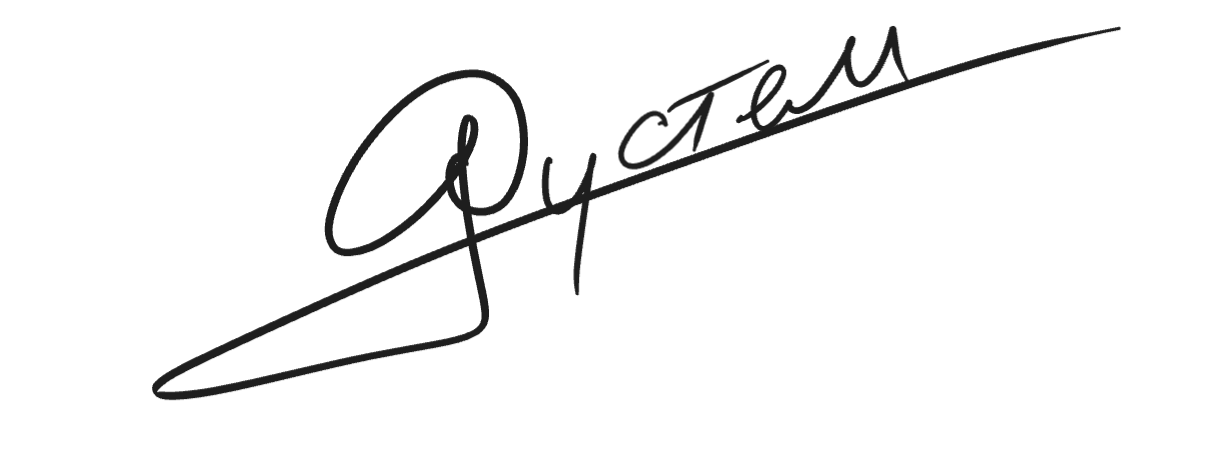
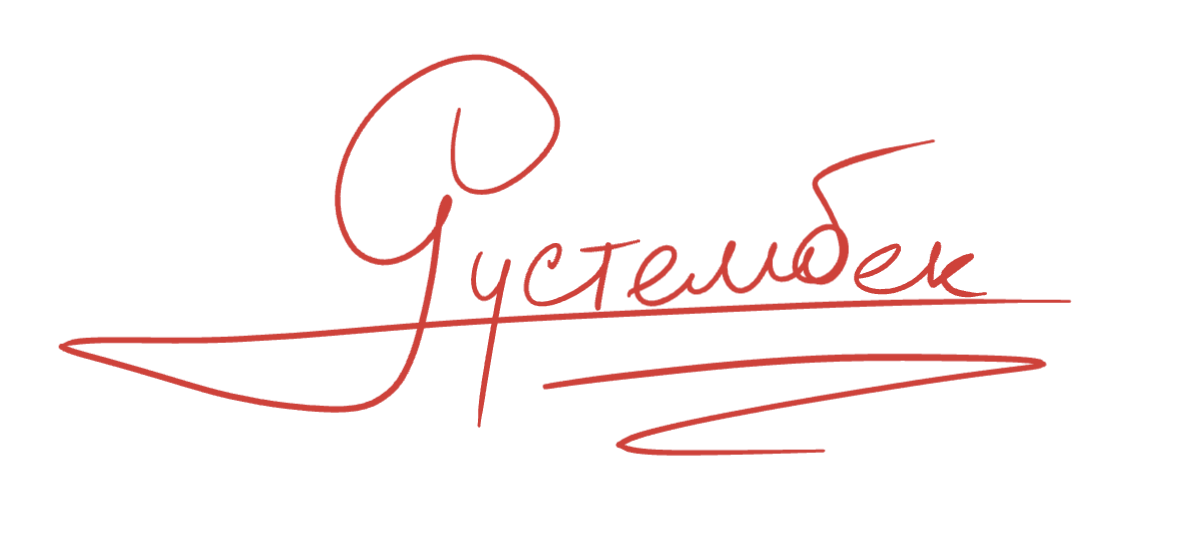
Қолтаңба жаңа суретке ауыстырылды (толық «Рустембек»)
- scripts/signature/signature.png — жаңа қолтаңба суреті
- build.py: қырлар қолмен тізілмейді, енді автоматты жалғанады — әр түйінде қалам ең түзу жалғасатын қырмен жүреді; алдымен әріптер солдан оңға, соңында асты сызылған сызық пен әшекейлер бір-бірімен жалғаса салынады
- src/data/generated/signature.json қайта жасалды (23 штрих)
- Интрода қалам жылдамдығы 1.05 → 1.6: жаңа қолтаңба ұзынырақ, жазылу бұрынғыдай ≈6 секундта бітеді

Claude-Session: https://claude.ai/code/session_015DZw1wLjvaSYTfkbT6zD3Y

Changed region(s): [[0.0311, 0.0619, 0.9328, 0.8982], [0.4664, 0.2168, 0.4975, 0.2478]]

diff --git a/src/components/Signature.tsx b/src/components/Signature.tsx
@@ -197,7 +197,7 @@ export function Intro({ onEnd }: { onEnd: () => void }) {
       <div className="intro-aura" aria-hidden="true"><i /><i /><i /></div>
       <div className="intro-in">
         <div className="intro-burst" aria-hidden="true" />
-        <Signature speed={1.05} label="Интро: автордың қолтаңбасы" onDone={() => { box.current?.classList.add('signed'); close(1700); }} />
+        <Signature speed={1.6} label="Интро: автордың қолтаңбасы" onDone={() => { box.current?.classList.add('signed'); close(1700); }} />
         <div className="intro-word" aria-hidden="true">{'ОРГАНИКА'.split('').map((ch, i) => <span key={i} style={{ transitionDelay: i * 55 + 'ms' }}>{ch}</span>)}</div>
         <div className="intro-line" aria-hidden="true" />
       </div>

diff --git a/scripts/signature/build.py b/scripts/signature/build.py
@@ -1,49 +1,117 @@
-"""Скелет қырларын қалам жүрісі ретімен тізіп, тегіс SVG жолдарына айналдыру."""
+"""Скелет қырларын қалам жүрісіне автоматты жалғап, тегіс SVG жолдарына айналдыру.
+
+Қолдану (signature.png тұрған бумада):
+    python3 trace.py signature.png   # skel.npy, debug.png
+    python3 edges.py                 # graph.json, edges.png
+    python3 build.py                 # signature.json, check.png
+    cp signature.json ../../src/data/generated/signature.json
+
+Қырларды қолмен тізудің қажеті жоқ: әр түйінде қалам ең түзу жалғасатын (бұрылысы ең аз)
+қырмен жүреді, бұрылыс тым күрт болса — штрих аяқталады. Штрихтар солдан оңға қарай салынады.
+"""
 import json, math
 import numpy as np
 from PIL import Image, ImageDraw
 
 g = json.load(open('graph.json'))
 E = g['edges']
+cent = {int(k): v for k, v in g['cent'].items()}
+MAX_TURN = math.radians(75)   # бұдан күрт бұрылыс — жаңа штрих
 
-def chain(start, ids):
-    """start түйінінен бастап қырларды ретімен жалғау (бағыты автоматты)."""
-    cur, out = start, []
-    for i in ids:
-        e = E[i]
-        pts = e['pts']
-        if e['a'] == e['b']:
-            pass  # тұйық ілмек: бағыты кейін тексеріледі
-        elif e['a'] == cur:
-            cur = e['b']
-        elif e['b'] == cur:
-            pts = pts[::-1]; cur = e['a']
-        else:
-            raise SystemExit('edge e%d does not touch n%d' % (i, cur))
-        out += pts if not out else pts[1:]
-    return out
+adj = {}
+for i, e in enumerate(E):
+    adj.setdefault(e['a'], []).append(i)
+    if e['b'] != e['a']:
+        adj.setdefault(e['b'], []).append(i)
 
-def loop_dir(pts, want_down):
-    k = min(40, len(pts) // 4)
-    down = pts[k][1] > pts[0][1]
-    return pts if down == want_down else pts[::-1]
+def oriented(i, frm):
+    """i қырының нүктелері frm түйінінен басталатындай бағытта."""
+    e = E[i]
+    pts = e['pts']
+    if e['a'] == frm:
+        return pts, e['b']
+    return pts[::-1], e['a']
 
-# 1) Р әрпі + астынан өтетін ұзын сызық (бір тыныспен)
-s1 = chain(19, [16, 24, 25, 30, 23, 15])
-s1 += loop_dir(E[26]['pts'], True)[1:]
-s1 += chain(35, [15, 33, 8, 7, 17, 37, 36, 38, 6, 27])[1:]
-# 2–3) у
-s2 = chain(26, [14, 8, 7, 22])
-s3 = chain(24, [22, 7, 9])
-# 4–6) с, т
-s4 = chain(18, [10, 5])
-s5 = chain(8, [5, 35])
-s6 = chain(12, [3, 13])
-# 7) е
-s7 = chain(17, [1, 19]) + loop_dir(E[4]['pts'], False)[1:] + chain(10, [19, 0])[1:]
-# 8) м
-s8 = chain(22, [32, 31, 31, 39, 34, 2, 2, 20, 18, 18, 11])
-strokes = [s1, s2, s3, s4, s5, s6, s7, s8]
+def direction(pts, at_start, k=12):
+    """Қырдың басындағы (немесе соңындағы) бағыт векторы."""
+    p = np.array(pts, float)
+    k = min(k, len(p) - 1)
+    if k <= 0:
+        return np.zeros(2)
+    v = p[k] - p[0] if at_start else p[-1] - p[-1 - k]
+    n = np.hypot(*v)
+    return v / n if n else v
+
+def turn(v1, v2):
+    if not v1.any() or not v2.any():
+        return 0.0
+    return math.acos(max(-1.0, min(1.0, float(v1 @ v2))))
+
+used = set()
+def free(n):
+    return [i for i in adj.get(n, []) if i not in used]
+
+def walk(start):
+    pts, node, inc = [], start, None
+    while True:
+        cand = free(node)
+        if not cand:
+            break
+        best, bt = None, None
+        for i in cand:
+            p, _ = oriented(i, node)
+            t = turn(inc, direction(p, True)) if inc is not None else 0.0
+            if bt is None or t < bt:
+                best, bt = i, t
+        if inc is not None and bt > MAX_TURN:
+            break
+        p, nxt = oriented(best, node)
+        used.add(best)
+        pts += p if not pts else p[1:]
+        inc = direction(p, False)
+        node = nxt
+    return pts
+
+strokes = []
+while len(used) < len(E):
+    # бос ұшы бар түйіндерден (сол жақтағысынан) бастаймыз, болмаса — кез келген қалған қырдан
+    ends = [n for n in adj if len(free(n)) == 1]
+    nodes = ends or [n for n in adj if free(n)]
+    start = min(nodes, key=lambda n: cent[n][0])
+    s = walk(start)
+    if len(s) >= 2:
+        strokes.append(s)
+
+# өте қысқа қалдықтарды (түйін ішіндегі ұсақ қырлар) тастаймыз
+def plen(s):
+    a = np.array(s, float)
+    return float(np.hypot(*np.diff(a, axis=0).T).sum())
+strokes = [s for s in strokes if plen(s) > 14]
+# әр штрих сол жақ ұшынан басталсын, штрихтар солдан оңға салынсын
+strokes = [s if s[0][0] <= s[-1][0] else s[::-1] for s in strokes]
+# алдымен әріптер (солдан оңға), ең соңында ұзын әшекейлі сызықтар — қолмен жазғандағыдай
+allx = np.array([p[0] for s in strokes for p in s])
+W_ALL = allx.max() - allx.min()
+def width(s):
+    xs = [p[0] for p in s]
+    return max(xs) - min(xs)
+ally = np.array([p[1] for s in strokes for p in s])
+LOW = ally.min() + 0.75 * (ally.max() - ally.min())   # бұдан төмен басталатын штрих — асты сызған әшекей
+flourish = lambda s: width(s) > 0.33 * W_ALL or min(p[1] for p in s) > LOW
+letters = sorted([s for s in strokes if not flourish(s)], key=lambda s: s[0][0])
+rest = [s for s in strokes if flourish(s)]
+# әшекейлер: сол жақтағысынан бастап, келесісі — алдыңғысының соңына ең жақын ұшы бар штрих (қажет болса кері бағытта)
+tail = []
+if rest:
+    cur = min(rest, key=lambda s: s[0][0]); rest.remove(cur); tail.append(cur)
+    while rest:
+        end = np.array(tail[-1][-1])
+        best = min(rest, key=lambda s: min(np.hypot(*(np.array(s[0]) - end)), np.hypot(*(np.array(s[-1]) - end))))
+        rest.remove(best)
+        if np.hypot(*(np.array(best[-1]) - end)) < np.hypot(*(np.array(best[0]) - end)):
+            best = best[::-1]
+        tail.append(best)
+strokes = letters + tail
 
 def smooth(pts, it=3, win=9):
     a = np.array(pts, float)
@@ -58,18 +126,6 @@ def smooth(pts, it=3, win=9):
         a = b
     return a
 
-def rdp(a, eps):
-    if len(a) < 3:
-        return a
-    s, e = a[0], a[-1]
-    d = e - s
-    n = np.hypot(*d)
-    dist = np.abs(d[0] * (a[:, 1] - s[1]) - d[1] * (a[:, 0] - s[0])) / n if n else np.hypot(*(a - s).T)
-    i = int(dist.argmax())
-    if dist[i] > eps:
-        return np.vstack([rdp(a[:i + 1], eps)[:-1], rdp(a[i:], eps)])
-    return np.array([s, e])
-
 def to_path(a):
     """Catmull-Rom → кубтық Безье."""
     f = lambda v: ('%.1f' % v).rstrip('0').rstrip('.')
@@ -81,11 +137,15 @@ def to_path(a):
         d += 'C%s %s %s %s %s %s' % tuple(f(v) for v in (*c1, *c2, *p2))
     return d
 
-X0, Y0, X1, Y1 = 140, 14, 1132, 412   # қиып алу аймағы
 def resample(a, step=6.0):
     seg = np.hypot(*np.diff(a, axis=0).T); t = np.concatenate([[0], np.cumsum(seg)])
     n = max(3, int(round(t[-1] / step)) + 1); u = np.linspace(0, t[-1], n)
     return np.stack([np.interp(u, t, a[:, 0]), np.interp(u, t, a[:, 1])], 1)
+
+allp = np.vstack([np.array(s, float) for s in strokes])
+M = 14
+X0, Y0 = np.floor(allp.min(0)) - M
+X1, Y1 = np.ceil(allp.max(0)) + M
 out = []
 for s in strokes:
     a = smooth(s, it=4, win=9)
@@ -94,16 +154,16 @@ for s in strokes:
     seg = np.hypot(*np.diff(a, axis=0).T).sum()
     out.append({'d': to_path(a), 'len': round(float(seg), 1), 'poly': a.tolist()})
     print(len(s), '->', len(a), 'pts, len', round(float(seg)))
-json.dump({'w': X1 - X0, 'h': Y1 - Y0, 'strokes': [{'d': o['d'], 'len': o['len']} for o in out]}, open('signature.json', 'w'))
-print('bytes', sum(len(o['d']) for o in out))
+json.dump({'w': int(X1 - X0), 'h': int(Y1 - Y0), 'strokes': [{'d': o['d'], 'len': o['len']} for o in out]}, open('signature.json', 'w'))
+print('strokes', len(out), 'bytes', sum(len(o['d']) for o in out), 'box', int(X1 - X0), 'x', int(Y1 - Y0))
 
-# салыстыру: түпнұсқа үстіне қызылмен
+# салыстыру: түпнұсқа үстіне түрлі түспен, штрих нөмірімен
 im = Image.open('signature.png').convert('RGB')
 im = Image.blend(im, Image.new('RGB', im.size, 'white'), 0.55)
 d = ImageDraw.Draw(im)
 cols = [(230, 25, 75), (0, 130, 200), (60, 180, 75), (245, 130, 48), (145, 30, 180), (0, 160, 160), (240, 50, 230), (120, 90, 0)]
 for i, o in enumerate(out):
     p = [(x + X0, y + Y0) for x, y in o['poly']]
-    d.line(p, fill=cols[i], width=3)
-    d.text((p[0][0] + 5, p[0][1] - 14), str(i + 1), fill=cols[i])
+    d.line(p, fill=cols[i % len(cols)], width=3)
+    d.text((p[0][0] + 5, p[0][1] - 14), str(i + 1), fill=cols[i % len(cols)])
 im.save('check.png')
